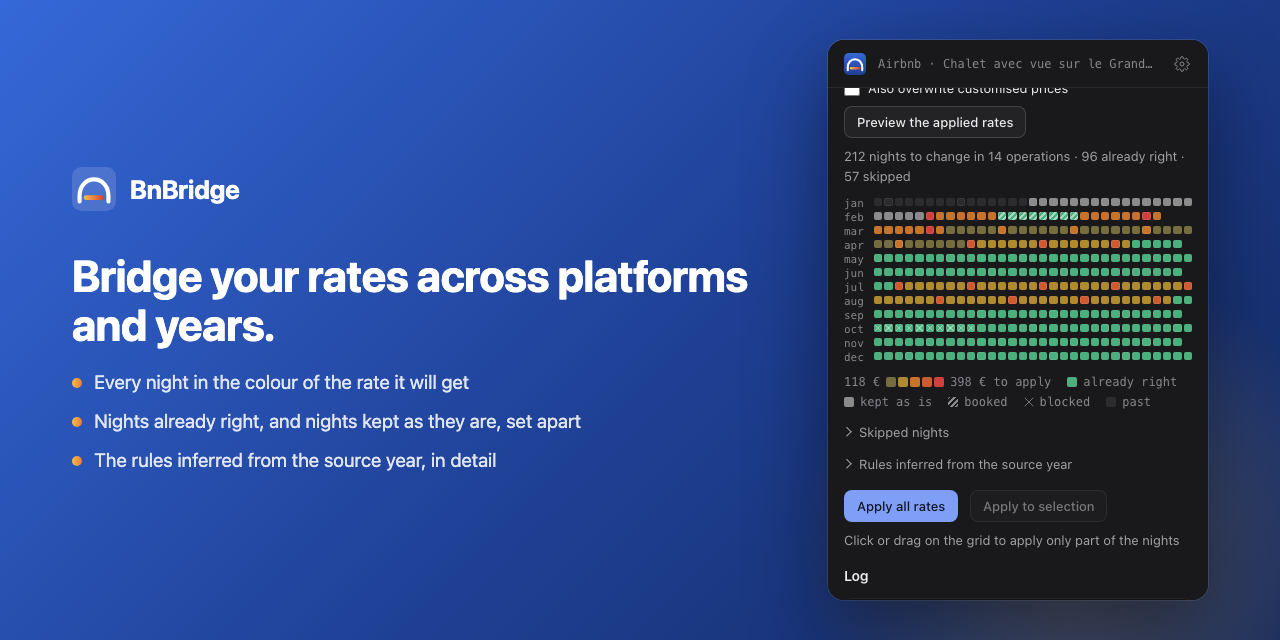
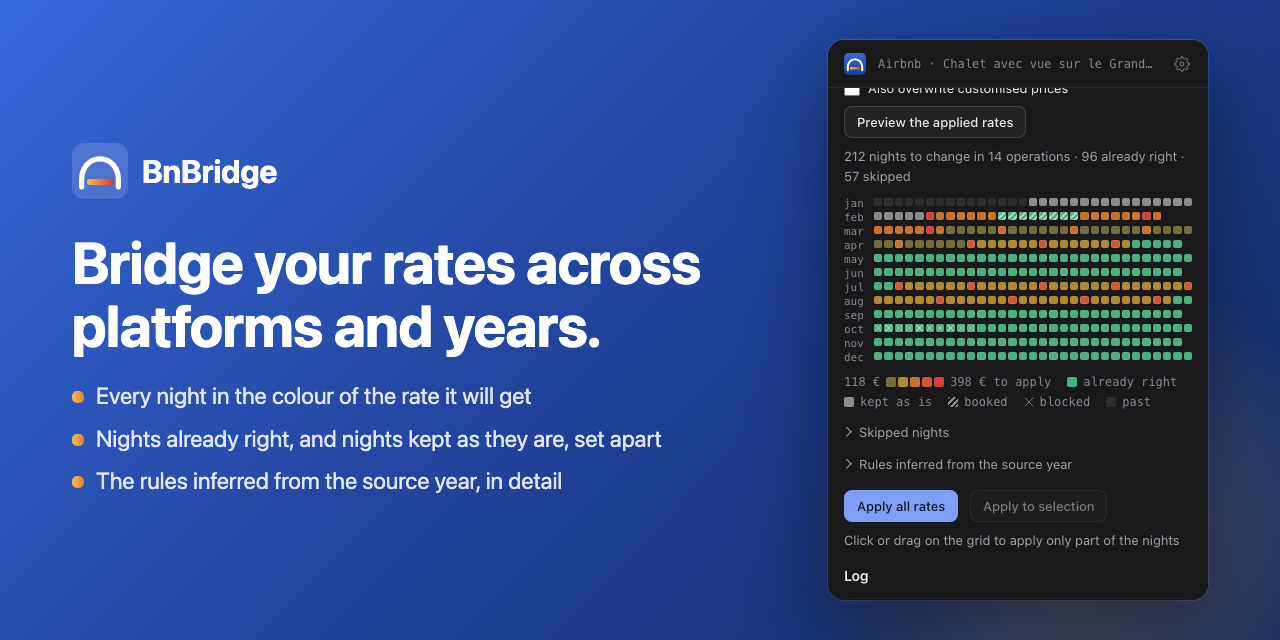
Grossir le texte de l'image de partage, vue en petit sur les réseaux

Changed region(s): [[0.0312, 0.375, 0.5938, 0.5625], [0.0312, 0.5938, 0.5312, 0.7812], [0.0312, 0.2188, 0.2188, 0.3438]]

diff --git a/dev/store.html b/dev/store.html
@@ -35,7 +35,13 @@
     .frame.marquee { width: 1400px; height: 560px; display: flex; align-items: center; gap: 56px; padding: 0 80px; box-sizing: border-box; }
     .marquee .copy h1 { font-size: 48px; }
     .frame.social { width: 1280px; height: 640px; display: flex; align-items: center; gap: 56px; padding: 0 72px; box-sizing: border-box; }
-    .social .copy h1 { font-size: 44px; }
+    /* L'image de partage est vue en petit sur les réseaux : tout y est plus gros. */
+    .social .copy .wordmark svg { width: 56px; height: 56px; }
+    .social .copy .wordmark b { font-size: 32px; }
+    .social .copy .wordmark { margin-bottom: 32px; }
+    .social .copy h1 { font-size: 58px; line-height: 1.08; margin-bottom: 24px; }
+    .social .copy ul { font-size: 23px; gap: 10px; }
+    .social .copy li::before { width: 12px; height: 12px; margin-top: 11px; }
     .social .panel { height: 560px; zoom: 1; }
     .social .panel iframe { height: 560px; }
     .marquee .panel { height: 480px; zoom: 1; }
